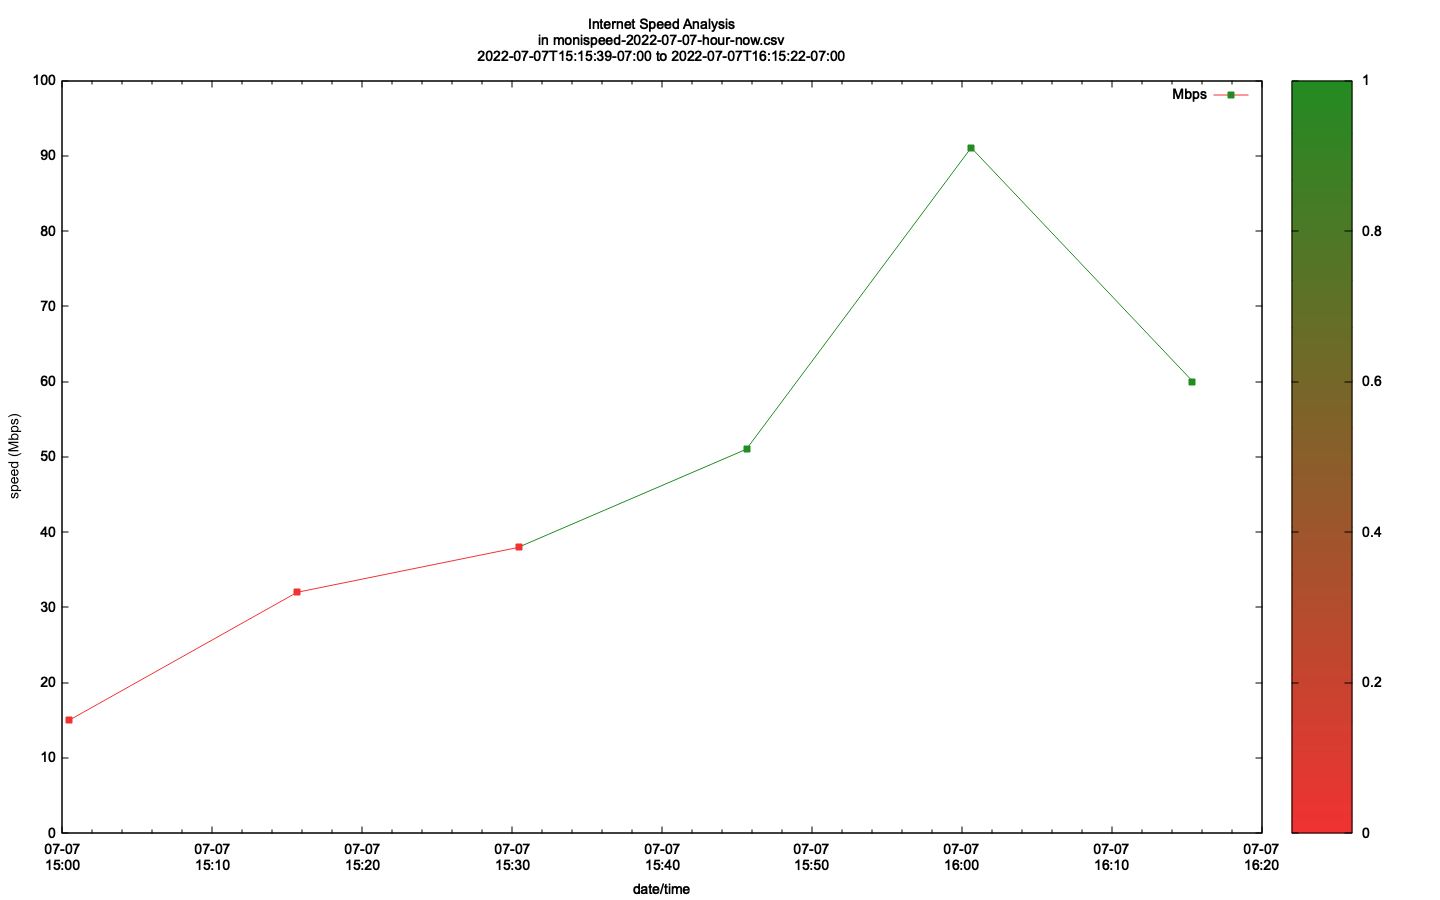
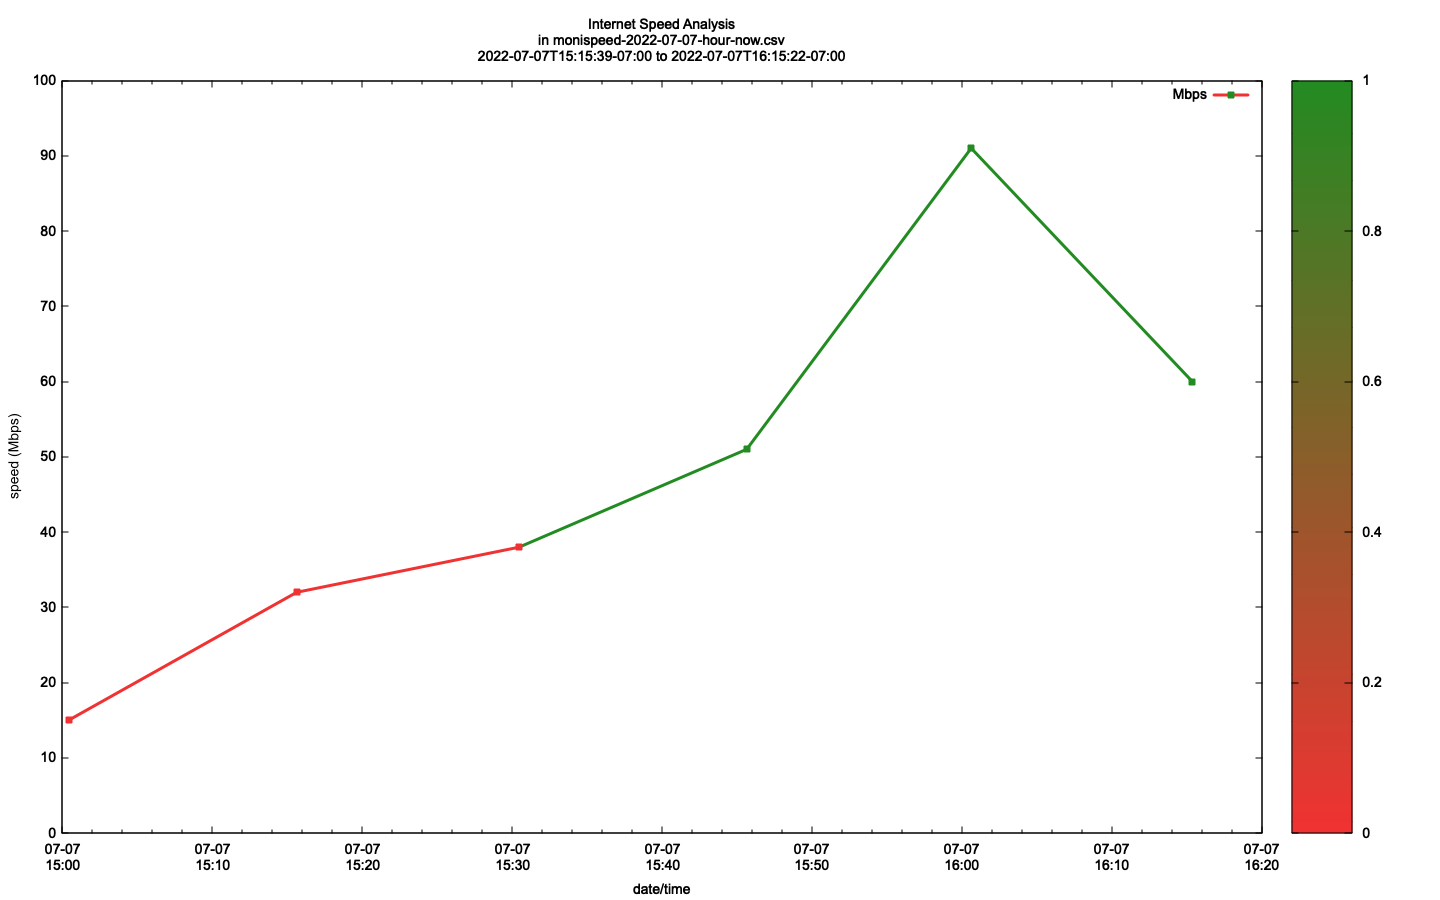
make plot line slightly thicker

diff --git a/README.md b/README.md
@@ -24,6 +24,9 @@ data collection.
 
 <img src="plot-example.png" alt="plot-example">
 
+As you an see, the plot changes color. It is red when the speed drops
+below 50Mpbs otherwise it is green.
+
 These tools can be used to monitor your interconnection to see how
 fast it is. The data and plot can also be presented to your
 internet service provider (ISP) to help track down service problems.
@@ -60,9 +63,9 @@ make weekly
 ```bash
 
 =-=-=-=-=-=-=-=-=-=-=-=-=-=-=-=-=-=-=-=-=-=-=-=-=-=-=-=-=-=-=-=-=-=-=-=-=-=
-=-=-= Target: help 
-=-=-= Date: Thu Jul  7 14:59:51 PDT 2022 
-=-=-= Directory: /Users/Joseph.Linoff/work/monispeed 
+=-=-= Target: help
+=-=-= Date: Thu Jul  7 14:59:51 PDT 2022
+=-=-= Directory: /Users/Joseph.Linoff/work/monispeed
 =-=-=-=-=-=-=-=-=-=-=-=-=-=-=-=-=-=-=-=-=-=-=-=-=-=-=-=-=-=-=-=-=-=-=-=-=-=
 
 Targets
